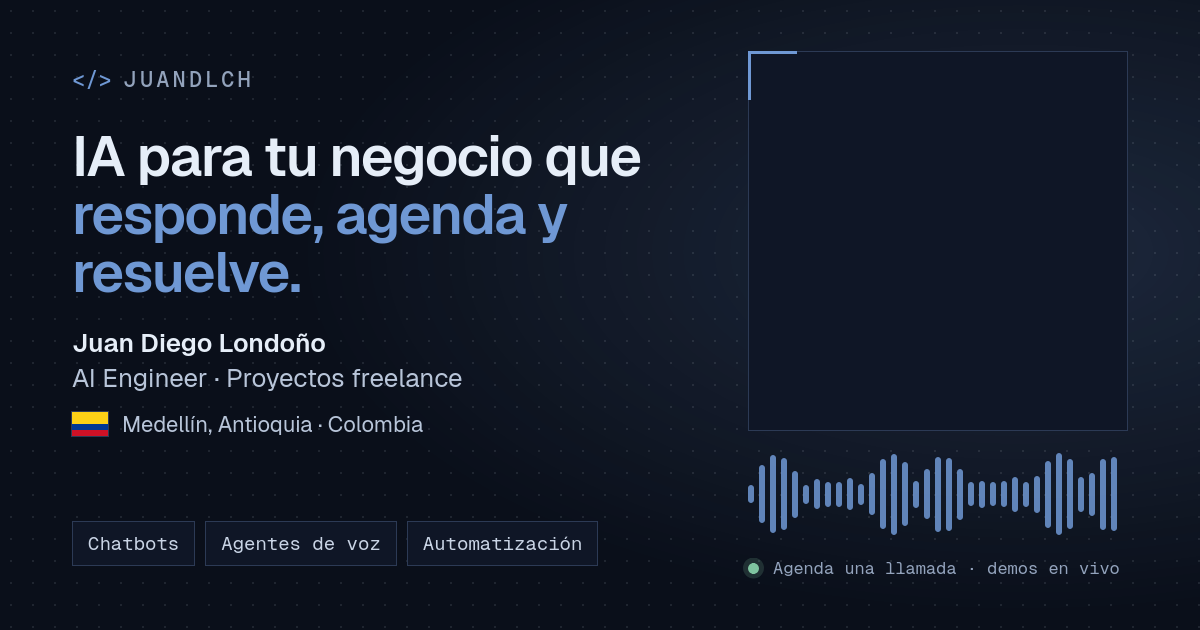
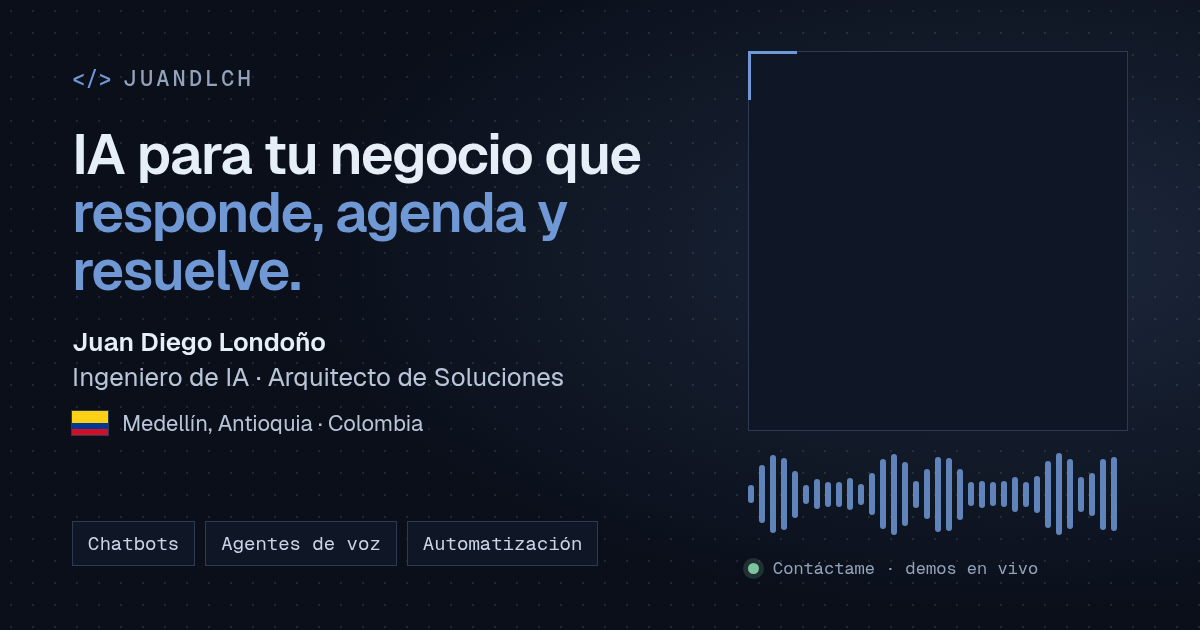
content: refresh the services link-preview cards (#112)

diff --git a/CLAUDE.md b/CLAUDE.md
@@ -85,7 +85,7 @@ No test suite.
 - AWS icons are official SVGs in `src/assets/aws/` (sourced from the JuanDLCH profile repo; `sns.svg` from the design). `Stack.astro` resolves them via `import.meta.glob` to hashed URLs. Run `pnpm optimize:svg` (SVGO, `svgo.config.mjs`) after adding any SVG.
 - `vite.build.assetsInlineLimit` is 0 on purpose: otherwise small images are inlined as `data:` URIs and `loading="lazy"` does nothing. Below-the-fold images must use `loading="lazy" decoding="async"` with explicit width/height.
 - **Link previews:** `Layout.astro` emits Open Graph / Twitter card tags with absolute URLs from `site` in `astro.config.mjs` (`https://juandlch.dev`). The image is one of four cards, `/media/og-<mode>-<lang>.jpg` (1200×630; the old `/media/og.jpg` still answers, for links shared before: `ogName` in `src/lab/media.ts`; see Profile photo below), one per site mode and language, each with the location (Colombia's flag, Medellín, Antioquia). Crawlers don't send the reader's language and cache per URL, so the language comes from the shared link: `juandlch.dev` is English and `juandlch.dev/es` (a real 301 from the Worker to `/?lang=es`; the Astro redirects are only meta refreshes, which crawlers don't follow) is Spanish. The Worker (`versioned` in `worker/media.ts`) picks the card for the site's mode (KV) and `?lang`, and in Spanish swaps in the tags' `data-es` text (Layout's `shareEs` prop and the image alt), sets `og:locale` to `es_CO` and adds `?lang=es` to `og:url`. The landing's tab and preview title and its description are `shareTitle`/`shareDesc` in `content.ts`; other pages use their English title and `description`. The landing also emits a JSON-LD `Person` (`schema` prop of `Layout`). `src/pages/sitemap.xml.ts` lists the public pages (add new ones there), `public/robots.txt` points to it, and unknown paths get `src/pages/404.astro` (`not_found_handling: "404-page"`).
-- **Profile photo (live, no deploy):** the hero's photo and the link preview are uploaded from the dashboard (**Profile photo** button → `PhotoEditor.tsx`): pick a photo, frame it twice (Profile 4:5 for the hero, Preview 1:1 drawn into the card), each with drag, zoom (slider, wheel, pinch) and live previews; the browser renders every file (hero WebP at `HERO_WIDTHS`, the four cards as JPEGs over `src/assets/og/base-<mode>-<lang>.png` at the slot in `src/assets/og-slot.json`, the same crop on each; the preview shows one, picked with its buttons) and `PUT /admin/api/photo` stores them in Workers KV (`MEDIA` binding, no id: wrangler creates the namespace on deploy) with the original and the crops, so it can be framed again: each upload under its own version (`media:<v>:<name>`), published by writing `media:current` last, so a failed upload leaves the previous photo live; the previous version is kept and older ones deleted. `worker/media.ts` serves `/media/<name>` (`run_worker_first`, names and crop math in `src/lab/media.ts`) with a 5-minute cache and an ETag (`X-Media-Source: kv|bundled`); until a photo is uploaded, or without KV, it serves the copies built from `src/assets/photo.png` and `src/assets/og/<mode>-<lang>.png`, listed by the static `/media-fallback.json` (`src/pages/media-fallback.json.ts`). `astro dev` proxies `/media` to production (public, read-only), so dev shows the live photo without the Worker; to try uploads, open the Worker itself (`pnpm dev:api --var ADMIN_DEV:1`, then `localhost:8787/admin`). If `/media/` fails, the hero's `<img>` swaps to the photo built with the site (`data-fallback`, a capture `error` listener inlined before it) instead of showing its alt text. Crawlers cache preview images by URL, so the shareable pages (`/`, `/lab/*`, `/privacy`, in `run_worker_first`) go through the Worker, which adds the photo's version to `og:image`/`twitter:image` (`?v=`, `versioned` with `HTMLRewriter`, version cached a minute per isolate); LinkedIn still caches the page itself, so run the link through its Post Inspector after a change. `node scripts/og-image.mjs` (headless Chrome, else Firefox) renders the four cards and their bases in `src/assets/og/` (copy in its `VARIANTS`, taken from `content.ts`) and `og-slot.json` (found by painting the slot magenta; the script fails if it moves between cards, so keep headlines short): run it when a card's copy or layout change (that still needs a deploy, and a new **Save** in the photo editor so KV gets the new cards).
+- **Profile photo (live, no deploy):** the hero's photo and the link preview are uploaded from the dashboard (**Profile photo** button → `PhotoEditor.tsx`): pick a photo, frame it twice (Profile 4:5 for the hero, Preview 1:1 drawn into the card), each with drag, zoom (slider, wheel, pinch) and live previews; the browser renders every file (hero WebP at `HERO_WIDTHS`, the four cards as JPEGs over `src/assets/og/base-<mode>-<lang>.png` at the slot in `src/assets/og-slot.json`, the same crop on each; the preview shows one, picked with its buttons) and `PUT /admin/api/photo` stores them in Workers KV (`MEDIA` binding, no id: wrangler creates the namespace on deploy) with the original and the crops, so it can be framed again: each upload under its own version (`media:<v>:<name>`), published by writing `media:current` last, so a failed upload leaves the previous photo live; the previous version is kept and older ones deleted. `worker/media.ts` serves `/media/<name>` (`run_worker_first`, names and crop math in `src/lab/media.ts`) with a 5-minute cache and an ETag (`X-Media-Source: kv|bundled`); until a photo is uploaded, or without KV, it serves the copies built from `src/assets/photo.png` and `src/assets/og/<mode>-<lang>.png`, listed by the static `/media-fallback.json` (`src/pages/media-fallback.json.ts`). `astro dev` proxies `/media` to production (public, read-only), so dev shows the live photo without the Worker; to try uploads, open the Worker itself (`pnpm dev:api --var ADMIN_DEV:1`, then `localhost:8787/admin`). If `/media/` fails, the hero's `<img>` swaps to the photo built with the site (`data-fallback`, a capture `error` listener inlined before it) instead of showing its alt text. Crawlers cache preview images by URL, so the shareable pages (`/`, `/lab/*`, `/privacy`, in `run_worker_first`) go through the Worker, which adds the photo's version to `og:image`/`twitter:image` (`?v=`, `versioned` with `HTMLRewriter`, version cached a minute per isolate); LinkedIn still caches the page itself, so run the link through its Post Inspector after a change. `node scripts/og-image.mjs` (headless Chrome, else Firefox) renders the four cards and their bases in `src/assets/og/` (copy in its `VARIANTS`, taken from `content.ts`) and `og-slot.json` (found by painting the slot magenta; the script fails if it moves between cards, so keep headlines short): run it when a card's copy or layout change (that still needs a deploy, and a new **Save** in the photo editor so KV gets the new cards). The role and the services call to action come from `content.ts` (`role`, `sv.bookCallShort`), the headlines and chips are hand-written: **whenever copy a card shows changes in `content.ts` (role, hero, site mode, contact), rerun the script in the same PR**, check the four PNGs and remind the user to Save in the photo editor after the deploy.
 - Raster images (certification badges, the fallback photo) go in `src/assets/` and render with Astro's `<Image>`/`<Picture>` (sharp, webp/avif); never in `public/`.
 
 ## Pending placeholders
